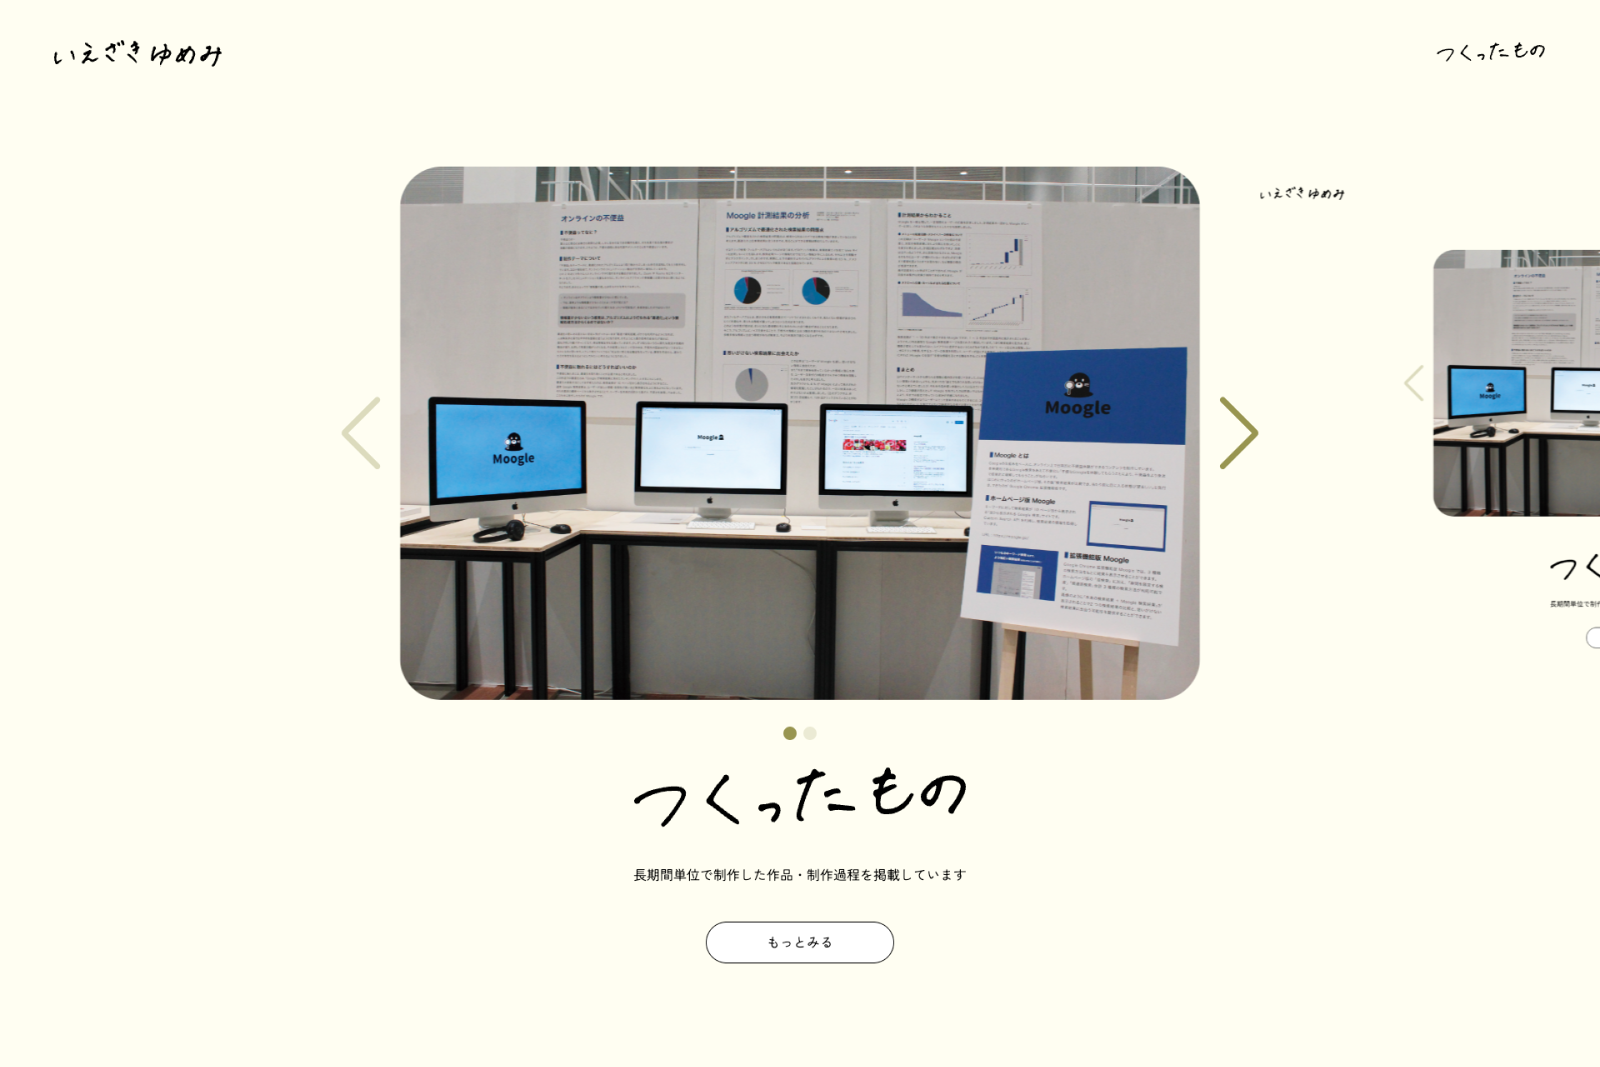
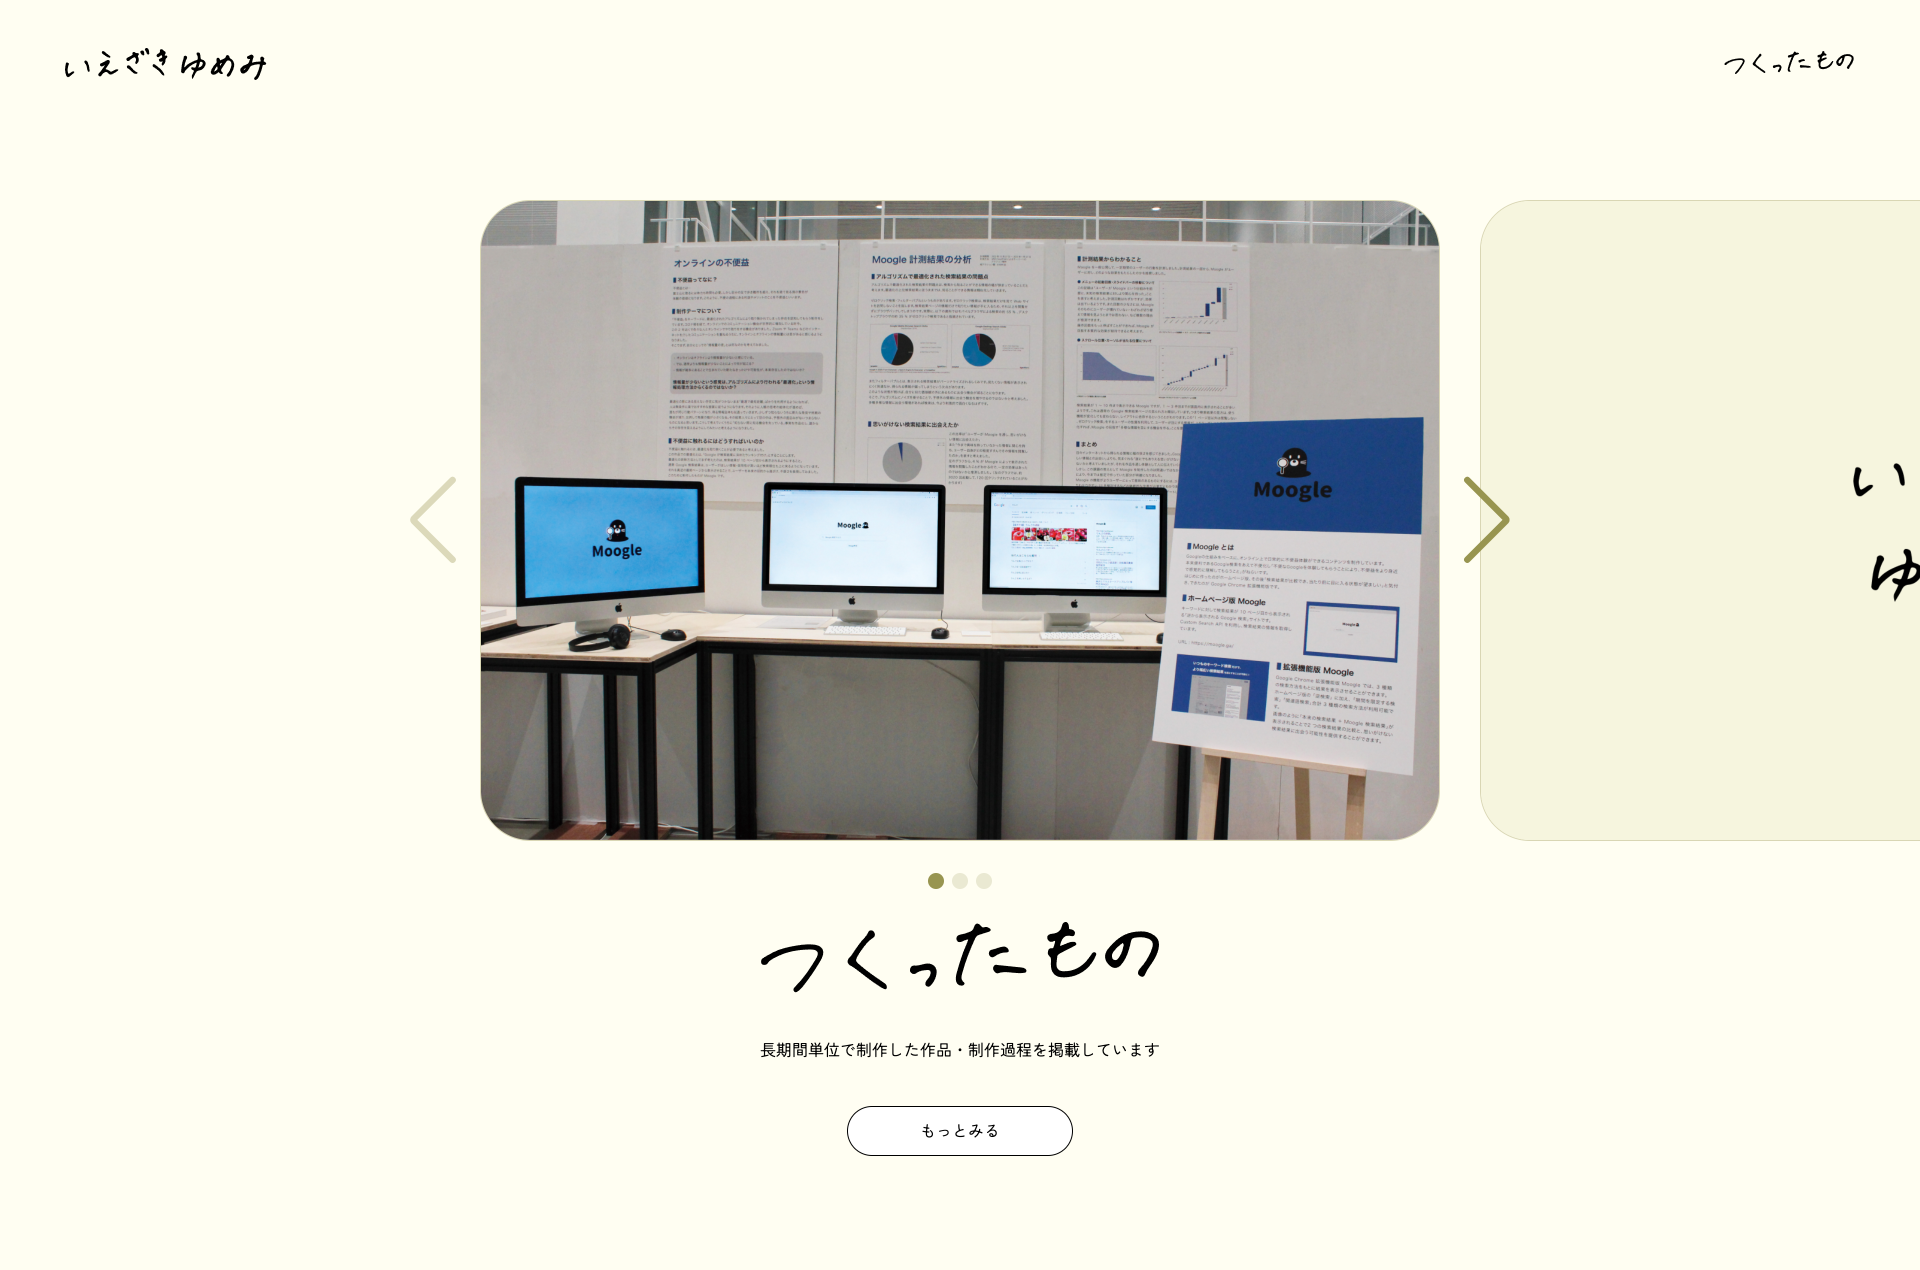
feat: ポートフォリオページに追記した

diff --git a/works/portfolio/index.html b/works/portfolio/index.html
@@ -108,7 +108,7 @@
 
             <div class="WorkIntroduce__TopWorkIntroduceContainer">
               <div class="WorkIntroduce__TopWorkIntroduce">
-                <p class="WorkIntroduce__TopWorkIntroduceDescription">いえざきゆめみのポートフォリオです。<br>現在も更新中です。</p>
+                <p class="WorkIntroduce__TopWorkIntroduceDescription">「いえざきゆめみのポートフォリオ」は、わたしのポートフォリオサイトです。<br>このサイトを見てくださる方へ、自分の作品を紹介するために制作しました。Swiper や Micromodal.js などはじめて使用した機能が多く、学びの多いサイト制作となりました。</p>
                 <div class="WorkIntroduce__TopWorkIntroduceMv">
                   <img class="WorkIntroduce__TopWorkIntroduceMvImage" src="/assets/images/portfolio-mvss.png" alt="いえざきゆめみのポートフォリオ">
                 </div>
@@ -127,28 +127,131 @@
         <div class="WorkIntroduce__ComponentWrapper">
           <div class="WorkIntroduce__ComponentWrapperInner">
 
-
             <div class="WorkIntroduce__ComponentItem WorkIntroduce__ComponentItem--Other WorkIntroduce__ComponentTitle">
               <h3 class=" WorkIntroduce__ComponentTitleInner">いえざきゆめみのポートフォリオ&nbsp;とは</h3>
+            </div>
+            <div class="WorkIntroduce__ComponentItem WorkIntroduce__ComponentText">
+              <p class="WorkIntroduce__ComponentTextInner">
+                「いえざきゆめみのポートフォリオ」は、わたしのポートフォリオサイトです。
+                今後使えるアイデアや、自分の興味やできることを広げるための「れんしゅう」と、一定期間をかけて制作した作品をまとめている「つくったもの」がメインコンテンツとなっています。
+                作品で自分の好きなことやできることを伝えたり、作品が少しずつ増えていくことで、今まで気づくことができなかった自分の得意や傾向を知ることができるようなデザインにしました。見てくださる方・自分にとっての作品図録のような存在にしたいと思っています。
+              </p>
+            </div>
+            <div class="WorkIntroduce__ComponentItem WorkIntroduce__ComponentImg">
+              <p class="WorkIntroduce__ComponentImgInner"><img src="/assets/images/portfolio-ss-home.png" alt="いえざきゆめみのポートフォリオ" class="WorkIntroduce__ComponentImgInnerImage"></p>
+            </div>
+
+            <div class="WorkIntroduce__ComponentItem WorkIntroduce__ComponentItem--Other WorkIntroduce__ComponentTitle">
+              <h3 class=" WorkIntroduce__ComponentTitleInner">手書きのロゴ・タイトルについて</h3>
+            </div>
+            <div class="WorkIntroduce__ComponentItem WorkIntroduce__ComponentText">
+              <p class="WorkIntroduce__ComponentTextInner">
+                特に、ヘッダー・セクションやページのタイトルに使っているロゴが気に入っています。
+                様々な Web サイトを参考にする中で、自分のポートフォリオには「ナチュラルな雰囲気で手作りっぽい、少しずつつくりあげていく最中、というイメージにしたい」と思いました。
+                その印象に一番説得力を持たせてくれているのが、この手書きの文字たちです。
+              </p>
+            </div>
+            <div class="WorkIntroduce__ComponentItem WorkIntroduce__ComponentImg">
+              <p class="WorkIntroduce__ComponentImgInner"><img src="/assets/images/portfolio-textlogo.png" alt="いえざきゆめみのポートフォリオ" class="WorkIntroduce__ComponentImgInnerImage"></p>
+            </div>
+
+            <div class="WorkIntroduce__ComponentItem WorkIntroduce__ComponentText">
+              <p class="WorkIntroduce__ComponentTextInner">
+                この文字は、大学で一緒に職員をしている先輩に書いていただきました。一文字ごとのやわらかい雰囲気や、「う」「の」など止めの墨だまりがかわいらしくて、とても気に入っています。
+              </p>
+            </div>
+            <div class="WorkIntroduce__ComponentItem WorkIntroduce__ComponentText">
+              <p class="WorkIntroduce__ComponentTextInner">
+                サインペンでコピー用紙に書いてもらったものをコピー機でスキャン後、そのデータを Adobe Illustrator で線抽出して使用しました。最初はプリンター設定が用途にあっていなかったためスキャンがうまくいかなかったり、Illustrator 上で自然なサインペンの線を抽出するのが難しかったです。
+                しかしその中でうまくいく方法を一つひとつ覚えていくことが楽しくて、今後も使える知識を得られた時間でもあったと思っています。
+              </p>
+            </div>
+            <div class="WorkIntroduce__ComponentItem WorkIntroduce__ComponentItem--Other WorkIntroduce__ComponentTitle">
+              <h3 class=" WorkIntroduce__ComponentTitleInner">その他のこだわり・好きなところ</h3>
+            </div>
+            <div class="WorkIntroduce__ComponentItem WorkIntroduce__ComponentVideo">
+              <iframe class="WorkIntroduce__ComponentVideoInner" width="560" height="315" src="https://www.youtube.com/embed/gcOZuQYdoEo?si=M4vn0fZlXWKDshsR" title="YouTube video player" frameborder="0" allow="accelerometer; autoplay; clipboard-write; encrypted-media; gyroscope; picture-in-picture; web-share" allowfullscreen></iframe>
+            </div>
+            <div class="WorkIntroduce__ComponentItem WorkIntroduce__ComponentText">
+              <p class="WorkIntroduce__ComponentTextInner">
+                ヘッダーのナビゲーションメニューにカーソルを当てると、丸が描かれるようにアニメーションを設定しました。
+                丸がつけられる動きによって、ユーザーは自身がそのメニューを選んだと直感的にわかりやすくなります。また手書きの線なので、このポートフォリオで表現したい手作り感を引き立たせることもできています。ペンで丸を打つような動きが自然に表現できたのも好きなポイントです。
+              </p>
+            </div>
+            <div class="WorkIntroduce__ComponentItem WorkIntroduce__ComponentText">
+              <p class="WorkIntroduce__ComponentTextInner">
+                同じような理由で、ページの先頭に戻るための矢印ボタンにも手書きの線を使用しています。
+              </p>
+            </div>
+            <div class="WorkIntroduce__ComponentItem WorkIntroduce__ComponentImg">
+              <p class="WorkIntroduce__ComponentImgInner"><img src="/assets/images/portfolio-ss-topbutton__arrow.png" alt="いえざきゆめみのポートフォリオ" class="WorkIntroduce__ComponentImgInnerImage"></p>
+            </div>
+            <div class="WorkIntroduce__ComponentItem WorkIntroduce__ComponentItem--Other WorkIntroduce__ComponentTitle">
+              <h3 class=" WorkIntroduce__ComponentTitleInner">デザインについて</h3>
+            </div>
+            <div class="WorkIntroduce__ComponentItem WorkIntroduce__ComponentText">
+              <p class="WorkIntroduce__ComponentTextInner">
+                画像を大きく、見せたいものを前に出すことを意識して制作しました。
+                トップページの各セクション、「つくったもの」内のスライドや、「れんしゅう」のコンテンツも同様です。
+                特に「つくったもの」は、サムネイル画像がトップページの中でも一番大きく表示されるようデザインしました。画面の真ん中にスライドが表示されているので、ユーザーがトップページをスクロールして眺めている間にも、印象に残りやすくできたのではないかと思います。
+              </p>
             </div>
             <div class="WorkIntroduce__ComponentItem WorkIntroduce__ComponentImg">
               <p class="WorkIntroduce__ComponentImgInner"><img src="/assets/images/portfolio-mvss.png" alt="いえざきゆめみのポートフォリオ" class="WorkIntroduce__ComponentImgInnerImage"></p>
             </div>
-            <div class="WorkIntroduce__ComponentText">
+            <div class="WorkIntroduce__ComponentItem WorkIntroduce__ComponentImg">
+              <p class="WorkIntroduce__ComponentImgInner"><img src="/assets/images/portfolio-ss-practice.png" alt="いえざきゆめみのポートフォリオ" class="WorkIntroduce__ComponentImgInnerImage"></p>
+            </div>
+
+
+            <div class="WorkIntroduce__ComponentItem WorkIntroduce__ComponentItem--Other WorkIntroduce__ComponentTitle">
+              <h3 class=" WorkIntroduce__ComponentTitleInner">苦戦したポイント・改善点など</h3>
+            </div>
+            <div class="WorkIntroduce__ComponentItem WorkIntroduce__ComponentText">
               <p class="WorkIntroduce__ComponentTextInner">
-                「いえざきゆめみのポートフォリオ」は、現在も更新中のポートフォリオサイトです。
-                作品を見ていただくことで自分の好きを伝えたり、作品一覧にコンテンツが少しずつ増えていくことで、今まで気づくことができなかった自分の得意や傾向を知ることができる、見てくださる方・自分にとっての図録のような存在にしたいと思い、制作しています。
+                作品の写真・サムネイル画像を引き立たせるようデザインしたつもりだったのですが、画像が背景色と同化してしまい、画像と背景の境界がわかりにくくなってしまうことがありました。
+                そのためトップページとつくったもの一覧ページのスライドすべてに、背景色に似た薄い色の境界線を引くことで対応しました。（上の画像「つくったもの」のスライド2枚目は、背景とスライドが同化してしまい角丸がついていないように見える。下の画像「つくったもの」のスライドには、ベージュ色の角丸付きの線が見える）
               </p>
             </div>
-            <!-- <div class="WorkIntroduce__ComponentItem WorkIntroduce__ComponentVideo">
-              <iframe class="WorkIntroduce__ComponentVideoInner" width="921" height="518" src="https://www.youtube.com/embed/d9oESHR8MY8" title="Moogleの使い方・インストール方法について" frameborder="0" allow="accelerometer; autoplay; clipboard-write; encrypted-media; gyroscope; picture-in-picture; web-share" allowfullscreen></iframe>
-            </div> -->
+            <div class="WorkIntroduce__ComponentItem WorkIntroduce__ComponentImg">
+              <p class="WorkIntroduce__ComponentImgInner"><img src="/assets/images/portfolio-ss-mv-slide-rerevise.png" alt="いえざきゆめみのポートフォリオ" class="WorkIntroduce__ComponentImgInnerImage"></p>
+            </div>
+
+
+              <div class="WorkIntroduce__ComponentItem WorkIntroduce__ComponentImg">
+                <p class="WorkIntroduce__ComponentImgInner"><img src="/assets/images/portfolio-modal.png" alt="いえざきゆめみのポートフォリオ" class="WorkIntroduce__ComponentImgInnerImage"></p>
+              </div>
+              <div class="WorkIntroduce__ComponentItem WorkIntroduce__ComponentText">
+                <p class="WorkIntroduce__ComponentTextInner">
+                  また思っていたよりも、ポップアップを実装するのが難しかったです。ポップアップには Micromodal.js を使用しました。ポップアップがファーストビューの中に収まるよう高さを調整したり、ポップアップの中に入っている Swiper の矢印を配置するために余白を整えたり、
+                  限られた枠幅を使ってコンテンツをきれいに見せるために、考えることが多い機能だと思いました。
+                </p>
+              </div>
+
+            <div class="WorkIntroduce__ComponentItem WorkIntroduce__ComponentItem--Other WorkIntroduce__ComponentTitle">
+              <h3 class=" WorkIntroduce__ComponentTitleInner">いえざきゆめみのポートフォリオ デザイン</h3>
+            </div>
             <div class="WorkIntroduce__ComponentItem WorkIntroduce__ComponentImg">
               <p class="WorkIntroduce__ComponentImgInner"><img src="/assets/images/portfolio-ss-home.png" alt="いえざきゆめみのポートフォリオ" class="WorkIntroduce__ComponentImgInnerImage"></p>
             </div>
             <div class="WorkIntroduce__ComponentItem WorkIntroduce__ComponentImg">
+              <p class="WorkIntroduce__ComponentImgInner"><img src="/assets/images/portfolio-modal.png" alt="いえざきゆめみのポートフォリオ" class="WorkIntroduce__ComponentImgInnerImage"></p>
+            </div>
+            <div class="WorkIntroduce__ComponentItem WorkIntroduce__ComponentImg">
               <p class="WorkIntroduce__ComponentImgInner"><img src="/assets/images/portfolio-ss-works.png" alt="いえざきゆめみのポートフォリオ" class="WorkIntroduce__ComponentImgInnerImage"></p>
             </div>
+            <div class="WorkIntroduce__ComponentItem WorkIntroduce__ComponentImg">
+              <p class="WorkIntroduce__ComponentImgInner"><img src="/assets/images/portfolio-ss-work-works.png" alt="いえざきゆめみのポートフォリオ" class="WorkIntroduce__ComponentImgInnerImage"></p>
+            </div>
+            <div class="WorkIntroduce__ComponentItem WorkIntroduce__ComponentLink">
+              <div class="WorkIntroduce__LinkButton">
+                <a class="WorkIntroduce__LinkButtonInner" href="https://iezakiyumemi.com/">
+                  <p class="WorkIntroduce__ButtonInnerText">いえざきゆめみのポートフォリオ&nbsp;トップページ</p>
+                  <img class="WorkIntroduce__ButtonArrow" src="/assets/images/link-arrow.svg" alt="ジャンプリンク用アイコン">
+                </a>
+              </div>
+            </div>
+
 
           </div>
           <div class="Section__Footer">
